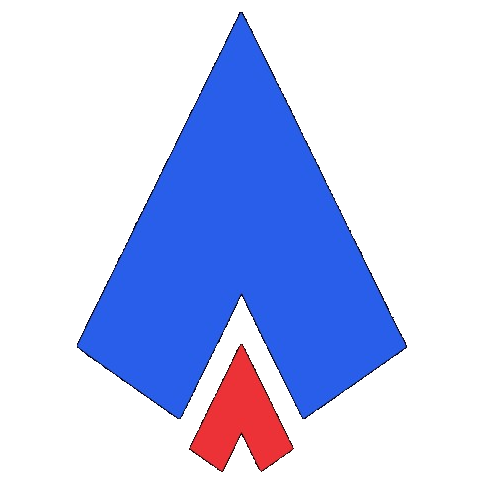
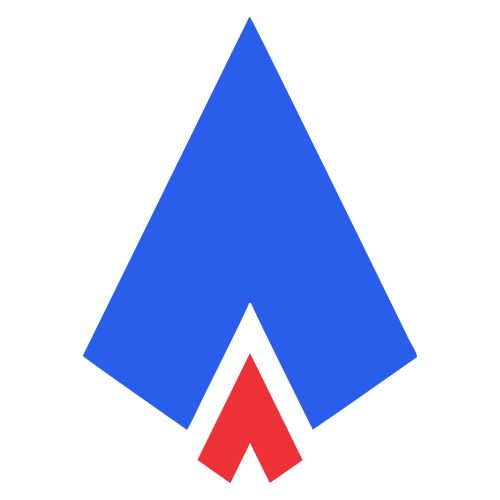
Animate the hero mark with separate blue and red layers.
Stack the new transparent logo parts so the red chevron grows from zero height and brightness into place on a continuous loop.

diff --git a/apps/web/src/styles/home.css b/apps/web/src/styles/home.css
@@ -42,39 +42,54 @@
   overflow: visible;
 }
 .hero-mark {
+  position: relative;
   width: 100%;
   aspect-ratio: 1;
   overflow: visible;
   background: transparent;
 }
-.hero-mark__img {
+.hero-mark__blue,
+.hero-mark__red {
   display: block;
   width: 100%;
   height: 100%;
   object-fit: contain;
+}
+.hero-mark__blue {
+  position: relative;
+  z-index: 1;
+}
+.hero-mark__red {
+  position: absolute;
+  inset: 0;
+  z-index: 2;
   transform-origin: center bottom;
-  will-change: transform, opacity;
-  animation: hero-mark-grow 2.6s cubic-bezier(0.45, 0.05, 0.25, 1) infinite;
+  will-change: transform, opacity, filter;
+  animation: hero-mark-red-rise 3.2s cubic-bezier(0.22, 1, 0.36, 1) infinite;
 }
-.hero-split.in .hero-mark__img {
-  animation: hero-mark-grow 2.6s cubic-bezier(0.45, 0.05, 0.25, 1) infinite;
+.hero-split.in .hero-mark__red {
+  animation: hero-mark-red-rise 3.2s cubic-bezier(0.22, 1, 0.36, 1) infinite;
 }
-@keyframes hero-mark-grow {
+@keyframes hero-mark-red-rise {
   0% {
-    transform: scaleY(0.28) scaleX(0.92);
-    opacity: 0.45;
+    transform: scaleY(0);
+    opacity: 0;
+    filter: brightness(0);
   }
   42% {
-    transform: scaleY(1) scaleX(1);
+    transform: scaleY(1);
     opacity: 1;
+    filter: brightness(1);
   }
-  58% {
-    transform: scaleY(1) scaleX(1);
+  62% {
+    transform: scaleY(1);
     opacity: 1;
+    filter: brightness(1);
   }
   100% {
-    transform: scaleY(0.28) scaleX(0.92);
-    opacity: 0.45;
+    transform: scaleY(0);
+    opacity: 0;
+    filter: brightness(0);
   }
 }
 .hero-art .mark,
@@ -454,11 +469,12 @@
   .live-dot {
     animation: none;
   }
-  .hero-mark__img,
-  .hero-split.in .hero-mark__img {
+  .hero-mark__red,
+  .hero-split.in .hero-mark__red {
     animation: none;
     transform: none;
     opacity: 1;
+    filter: none;
   }
   .swoop,
   .draw { stroke-dashoffset: 0; }
